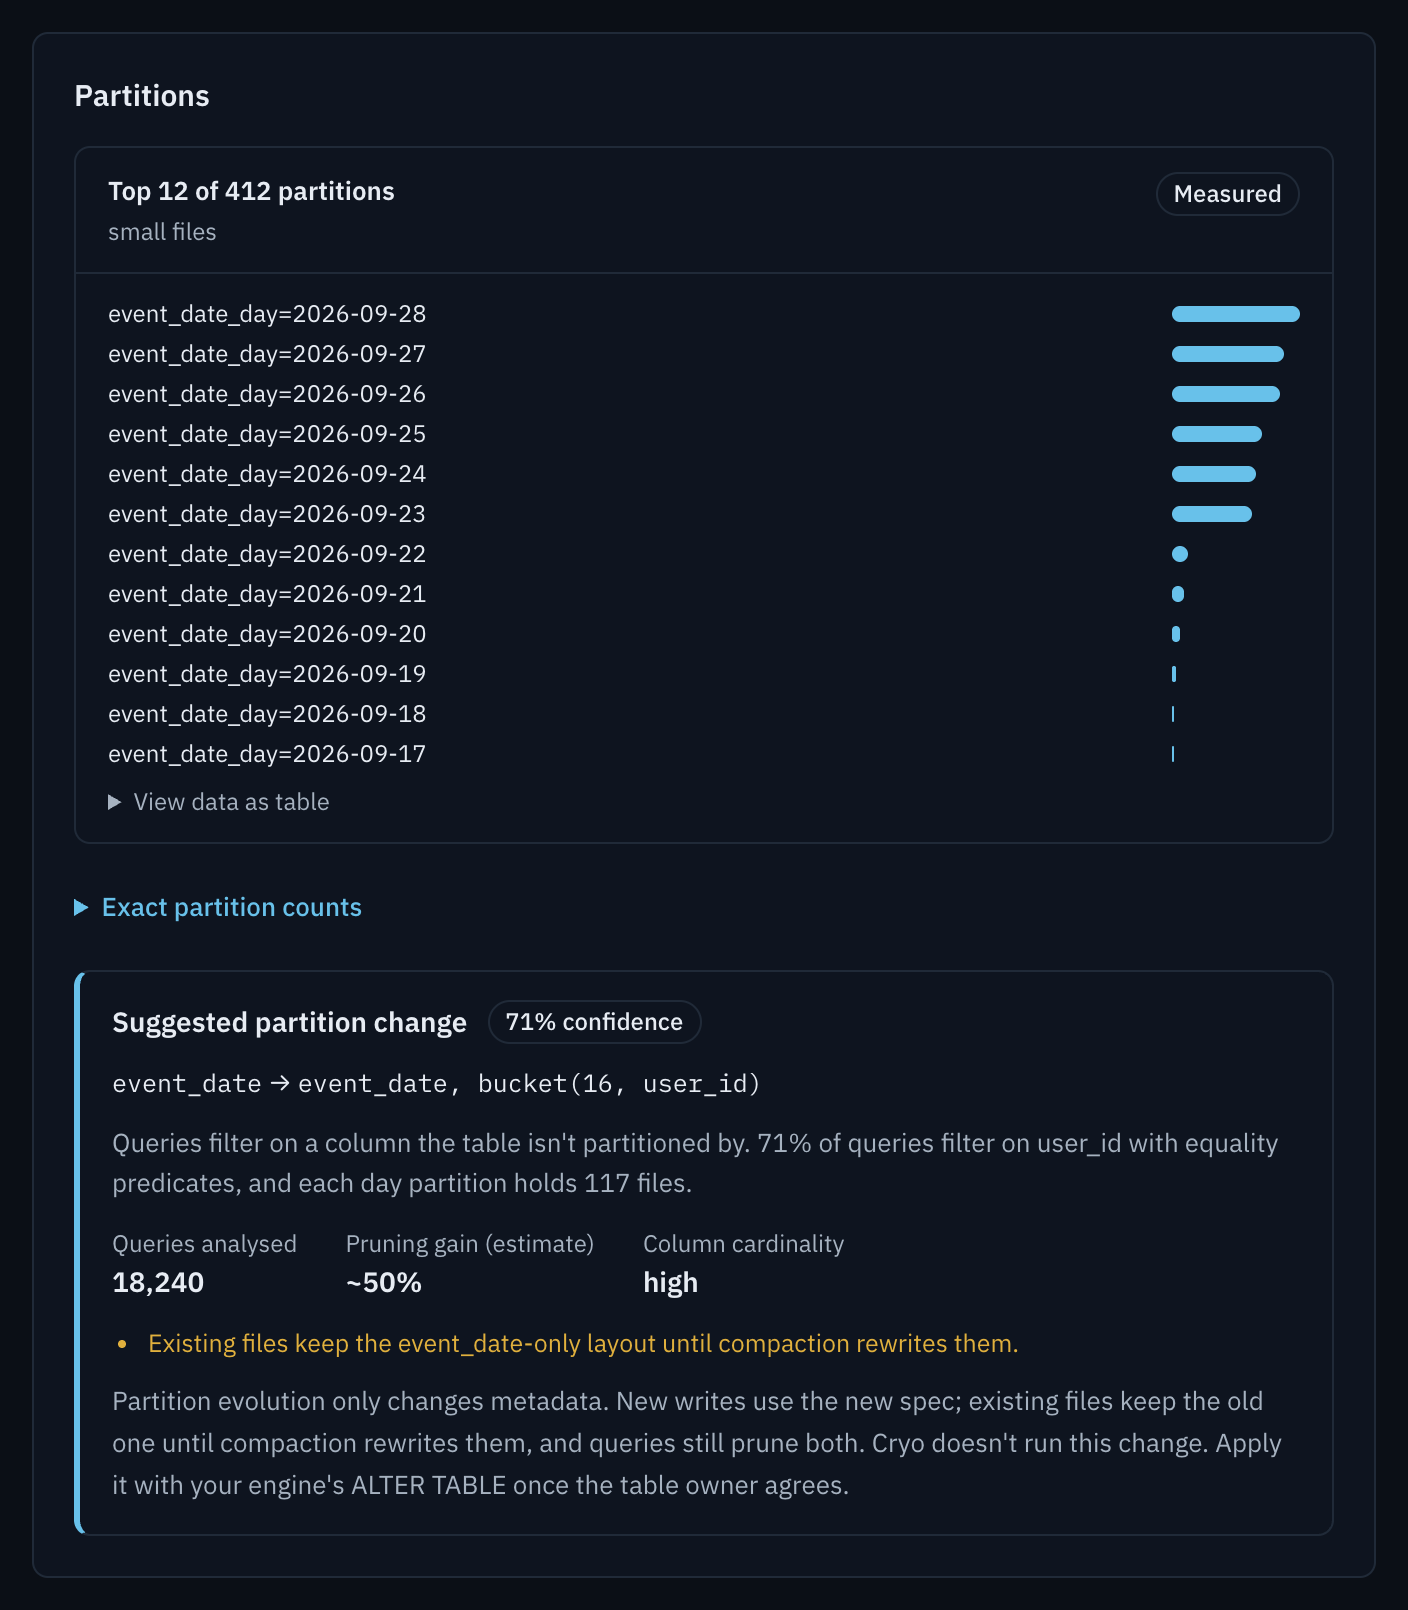
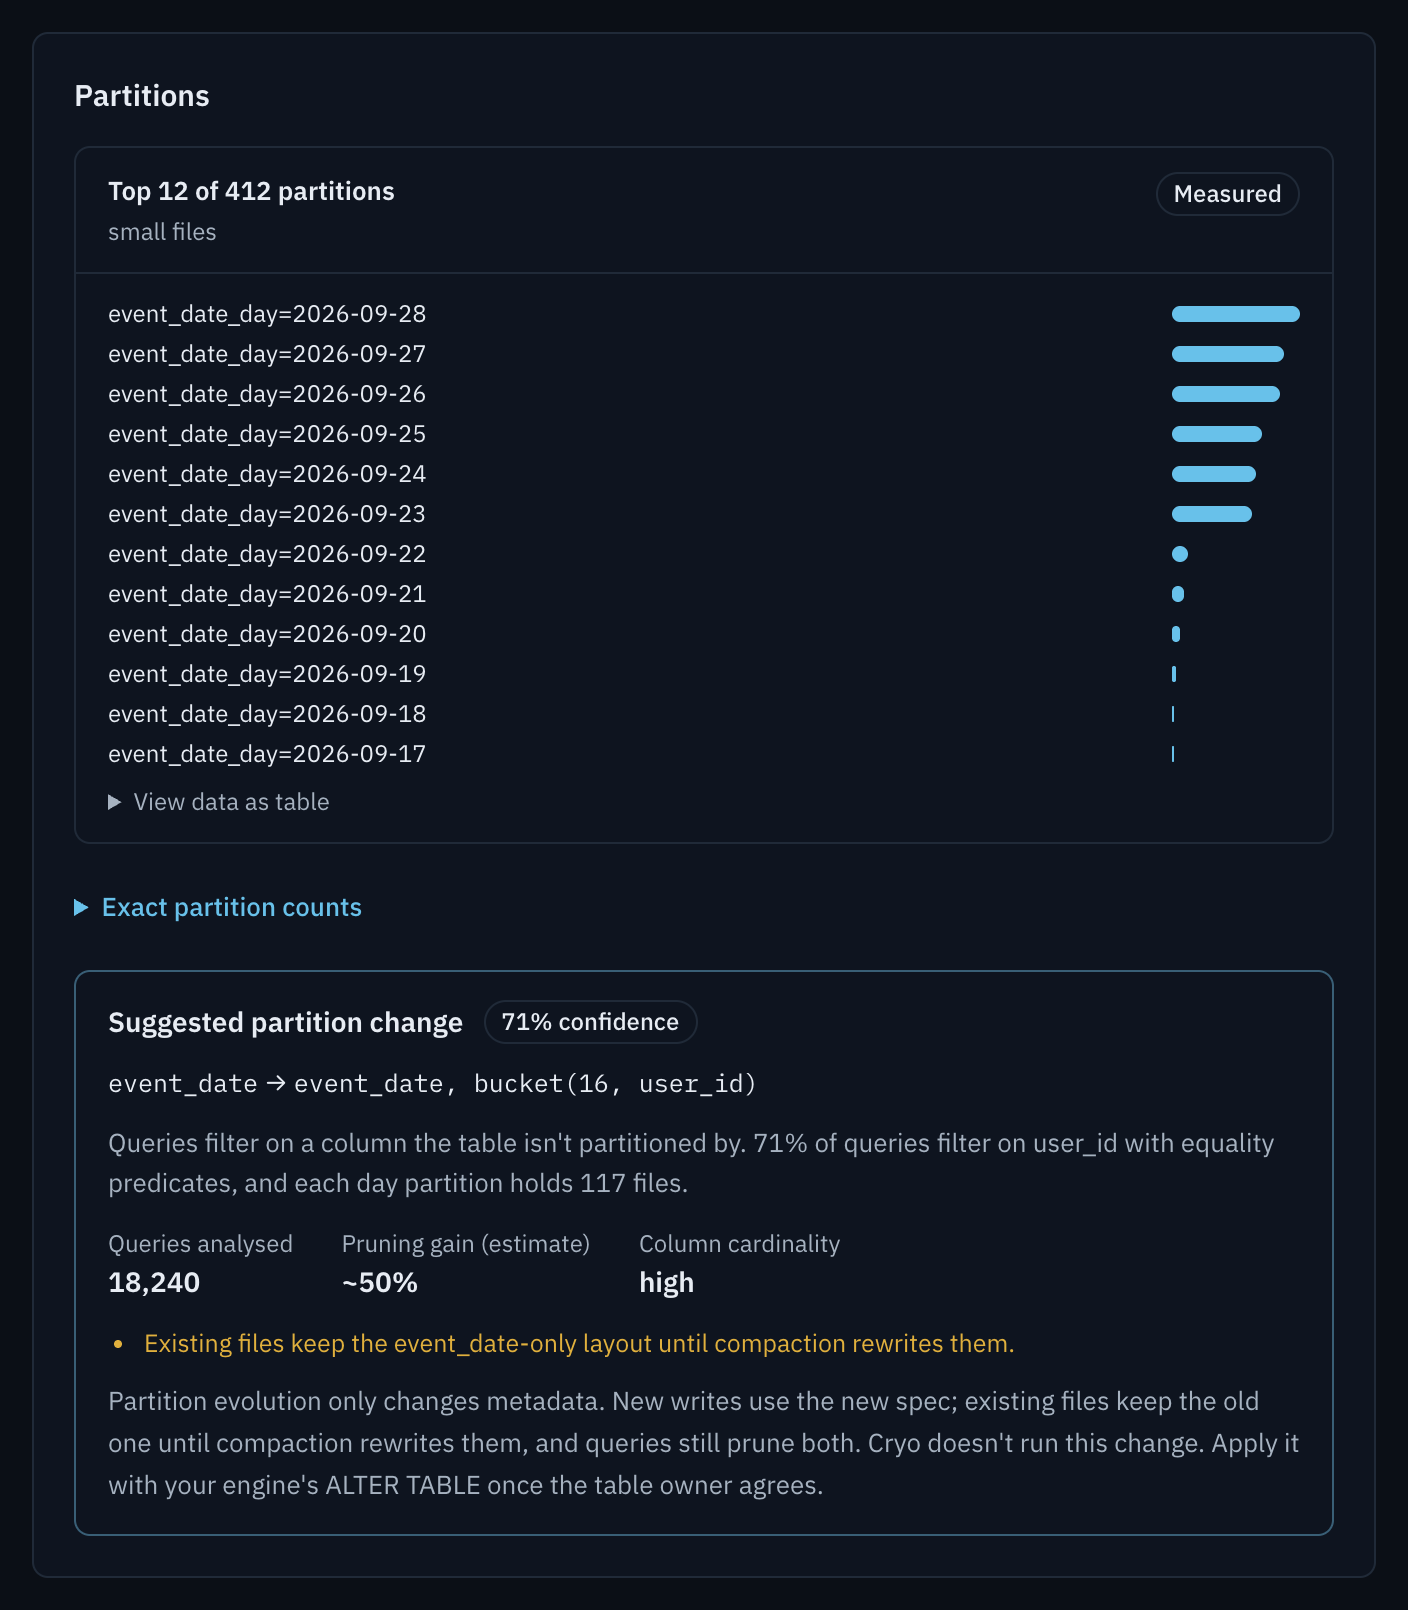
fix(table-detail): drop side-accent borders flagged by impeccable; fit Commits columns

Changed region(s): [[0.0312, 0.6211, 0.9062, 0.9317]]

diff --git a/site/table-detail/index.html b/site/table-detail/index.html
@@ -101,7 +101,7 @@
 <h3 id="files-files">Files<a class="anchor" href="#files-files" aria-label="Link to Files">#</a></h3>
 <p>Data files, position and equality delete files, manifests, average file size, the writer target and small-file candidates. Small-file candidates are counted only in partitions selected for compaction, so they can be lower than the histogram on Overview. Beside it, <b>Small-file candidates over scans</b> shows whether the backlog is growing.</p>
 <p><b>Delete files</b> shows the share of files that are delete files, their trend over scans and a verdict. The verdict uses the same cut-offs as the health score: a warning at 5% or 100 delete files, critical at 20% or 1,000. <b>Minor delete compaction recommended</b> means the delete files can be merged without touching data, which Spark's rewrite position deletes does; Trino has no such procedure, so on Trino convert deletes rewrites the affected data files instead. <b>Major rewrite recommended</b> means convert deletes, which works on both engines.</p>
-<figure class="shot"><div class="shot-frame"><div class="shot-bar"><div class="shot-chrome" aria-hidden="true"><span></span><span></span><span></span></div><p>cryo.local/tables/analytics.events?tab=files</p><em class="shot-demo">Demo data</em></div><button class="shot-zoom" type="button" aria-label="Enlarge screenshot: Delete files section with a Minor delete compaction recommended badge. 3.9% of files are delete files (640). Warning at 5% or 100 files, critical at 20% or 1,000, the same cut-offs as the health score. A note explains rewrite position deletes on Spark and convert deletes on Trino. A line chart shows delete files rising from 60 to 640 over 30 scans."><img class="shot-light" src="../assets/img/screens/table-tab-files-deletes-light.png" width="704" height="555" alt="Delete files section with a Minor delete compaction recommended badge. 3.9% of files are delete files (640). Warning at 5% or 100 files, critical at 20% or 1,000, the same cut-offs as the health score. A note explains rewrite position deletes on Spark and convert deletes on Trino. A line chart shows delete files rising from 60 to 640 over 30 scans." loading="lazy" decoding="async"><img class="shot-dark" src="../assets/img/screens/table-tab-files-deletes-dark.png" width="704" height="555" alt="Delete files section with a Minor delete compaction recommended badge. 3.9% of files are delete files (640). Warning at 5% or 100 files, critical at 20% or 1,000, the same cut-offs as the health score. A note explains rewrite position deletes on Spark and convert deletes on Trino. A line chart shows delete files rising from 60 to 640 over 30 scans." loading="lazy" decoding="async"></button></div><figcaption>640 delete files are past the 100-file warning, even though they are only 3.9% of files.</figcaption></figure>
+<figure class="shot"><div class="shot-frame"><div class="shot-bar"><div class="shot-chrome" aria-hidden="true"><span></span><span></span><span></span></div><p>cryo.local/tables/analytics.events?tab=files</p><em class="shot-demo">Demo data</em></div><button class="shot-zoom" type="button" aria-label="Enlarge screenshot: Delete files section with a Minor delete compaction recommended badge. 3.9% of files are delete files (640). Warning at 5% or 100 files, critical at 20% or 1,000, the same cut-offs as the health score. A note explains rewrite position deletes on Spark and convert deletes on Trino. A line chart shows delete files rising from 60 to 640 over 30 scans."><img class="shot-light" src="../assets/img/screens/table-tab-files-deletes-light.png" width="704" height="557" alt="Delete files section with a Minor delete compaction recommended badge. 3.9% of files are delete files (640). Warning at 5% or 100 files, critical at 20% or 1,000, the same cut-offs as the health score. A note explains rewrite position deletes on Spark and convert deletes on Trino. A line chart shows delete files rising from 60 to 640 over 30 scans." loading="lazy" decoding="async"><img class="shot-dark" src="../assets/img/screens/table-tab-files-deletes-dark.png" width="704" height="557" alt="Delete files section with a Minor delete compaction recommended badge. 3.9% of files are delete files (640). Warning at 5% or 100 files, critical at 20% or 1,000, the same cut-offs as the health score. A note explains rewrite position deletes on Spark and convert deletes on Trino. A line chart shows delete files rising from 60 to 640 over 30 scans." loading="lazy" decoding="async"></button></div><figcaption>640 delete files are past the 100-file warning, even though they are only 3.9% of files.</figcaption></figure>
 <h3 id="files-layout">Layout<a class="anchor" href="#files-layout" aria-label="Link to Layout">#</a></h3>
 <p>The partition spec and sort order in words, then the granularity the scan observed, such as 412 partitions by date with 117 files each. A badge appears only when the granularity is a problem. <b>Workload-aware layout recommendations</b> opens reclustering suggestions built from query patterns.</p>
 <h3 id="files-partitions">Partitions<a class="anchor" href="#files-partitions" aria-label="Link to Partitions">#</a></h3>

diff --git a/web/src/components/table-detail/files/files.css b/web/src/components/table-detail/files/files.css
@@ -10,14 +10,14 @@
 .td-files-section > h2 { font-size: 15px; }
 .td-files-delete-head { display: flex; align-items: center; flex-wrap: wrap; gap: 10px; }
 .td-files-delete-head h2 { font-size: 15px; }
-.td-files-delete-action { margin: 0; padding: 10px 12px; border-left: 3px solid var(--color-status-warning); background: var(--color-surface-sunken); font-size: 13px; line-height: 1.55; }
+.td-files-delete-action { margin: 0; padding: 10px 12px; border: 1px solid color-mix(in srgb, var(--color-status-warning) 40%, var(--color-border)); border-radius: var(--radius-default); background: var(--color-surface-sunken); font-size: 13px; line-height: 1.55; }
 .td-usage { display: inline-grid; min-width: 140px; gap: 2px; }
 .td-usage-bar { display: block; min-width: 2px; height: 5px; border-radius: 3px; }
 .td-usage-bar[data-kind="filter"], .td-usage-key[data-kind="filter"] { background: var(--color-chart-primary, var(--color-primary)); }
 .td-usage-bar[data-kind="join"], .td-usage-key[data-kind="join"] { background: var(--color-status-warning); }
 .td-usage-text { color: var(--color-text-secondary); font-size: 11.5px; font-variant-numeric: tabular-nums; white-space: nowrap; }
 .td-usage-key { display: inline-block; width: 10px; height: 6px; margin: 0 2px 1px 6px; border-radius: 2px; vertical-align: middle; }
-.td-files-evolution { display: flex; flex-direction: column; gap: 10px; padding: 14px 16px; border: 1px solid var(--color-border); border-left: 3px solid var(--color-primary); border-radius: var(--radius-default); }
+.td-files-evolution { display: flex; flex-direction: column; gap: 10px; padding: 14px 16px; border: 1px solid color-mix(in srgb, var(--color-primary) 35%, var(--color-border)); border-radius: var(--radius-default); }
 .td-files-evolution-spec { margin: 0; font-size: 13px; }
 .td-files-evolution-spec code { font-family: var(--font-mono, ui-monospace, monospace); font-size: 12.5px; }
 .td-files-evolution-facts { display: flex; flex-wrap: wrap; gap: 8px 24px; }

diff --git a/web/src/components/table-detail/overview/overview.css b/web/src/components/table-detail/overview/overview.css
@@ -737,12 +737,13 @@
 .td-manifest-strip > div {
   padding: 8px 10px;
   border: 1px solid var(--color-border);
-  border-left-width: 3px;
   border-radius: var(--radius-default);
 }
 
-.td-manifest-strip > div[data-tone="ok"] { border-left-color: var(--color-status-success); }
-.td-manifest-strip > div[data-tone="warn"] { border-left-color: var(--color-status-warning); }
+.td-manifest-strip > div[data-tone="warn"] {
+  border-color: color-mix(in srgb, var(--color-status-warning) 45%, var(--color-border));
+  background: color-mix(in srgb, var(--color-status-warning) 6%, transparent);
+}
 
 .td-manifest-strip dt {
   color: var(--color-muted);

diff --git a/web/src/components/table-detail/config/tableConfig.css b/web/src/components/table-detail/config/tableConfig.css
@@ -1065,7 +1065,8 @@ button.tc-tile { cursor: pointer; }
 .tc-suggestion-alert {
   margin-top: 0.75rem;
   padding: 0.5rem 0.75rem;
-  border-left: 3px solid var(--color-status-danger);
+  border: 1px solid color-mix(in srgb, var(--color-status-danger) 40%, var(--color-border));
+  border-radius: var(--radius-default);
   background: var(--color-surface-sunken);
   font-size: 0.8125rem;
 }
